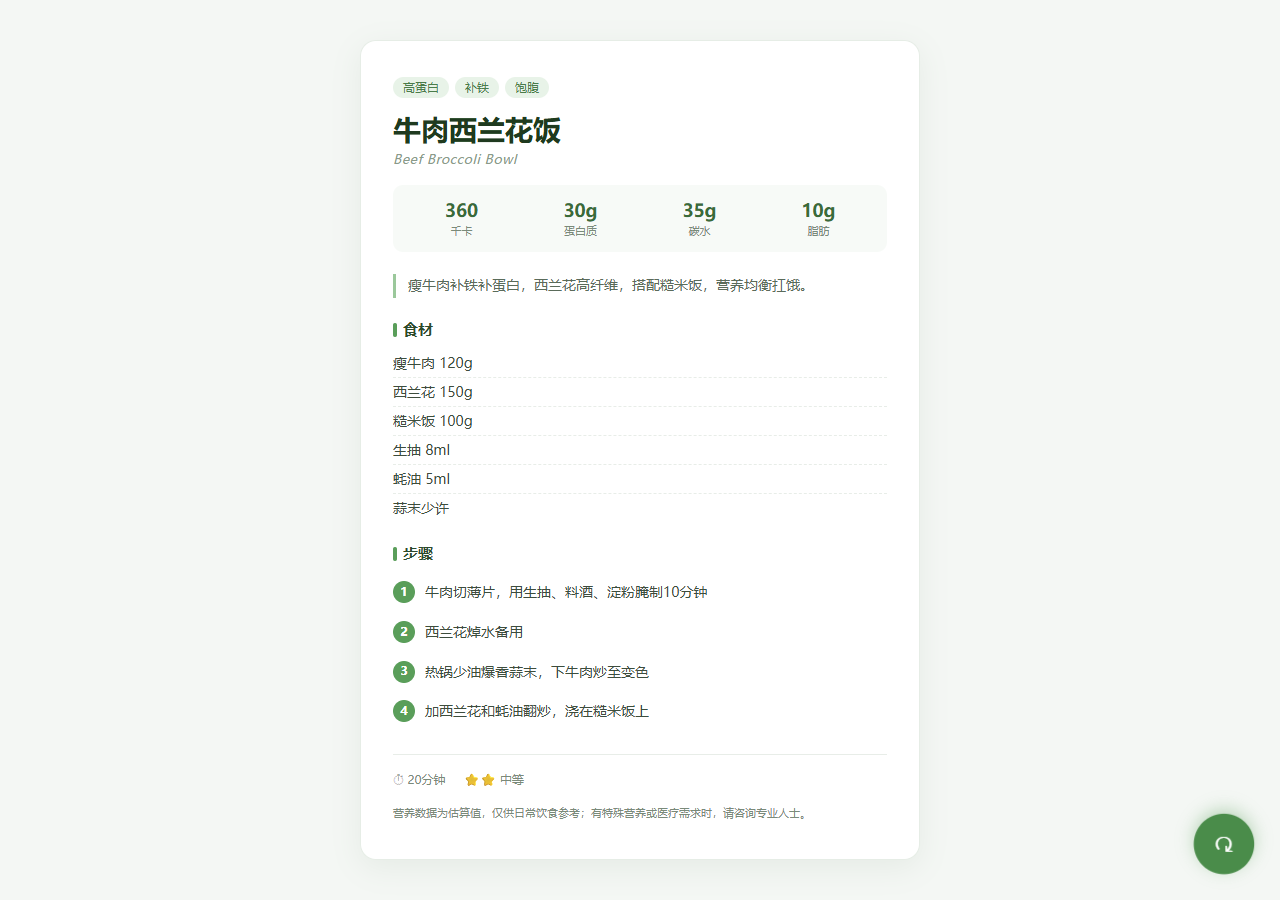
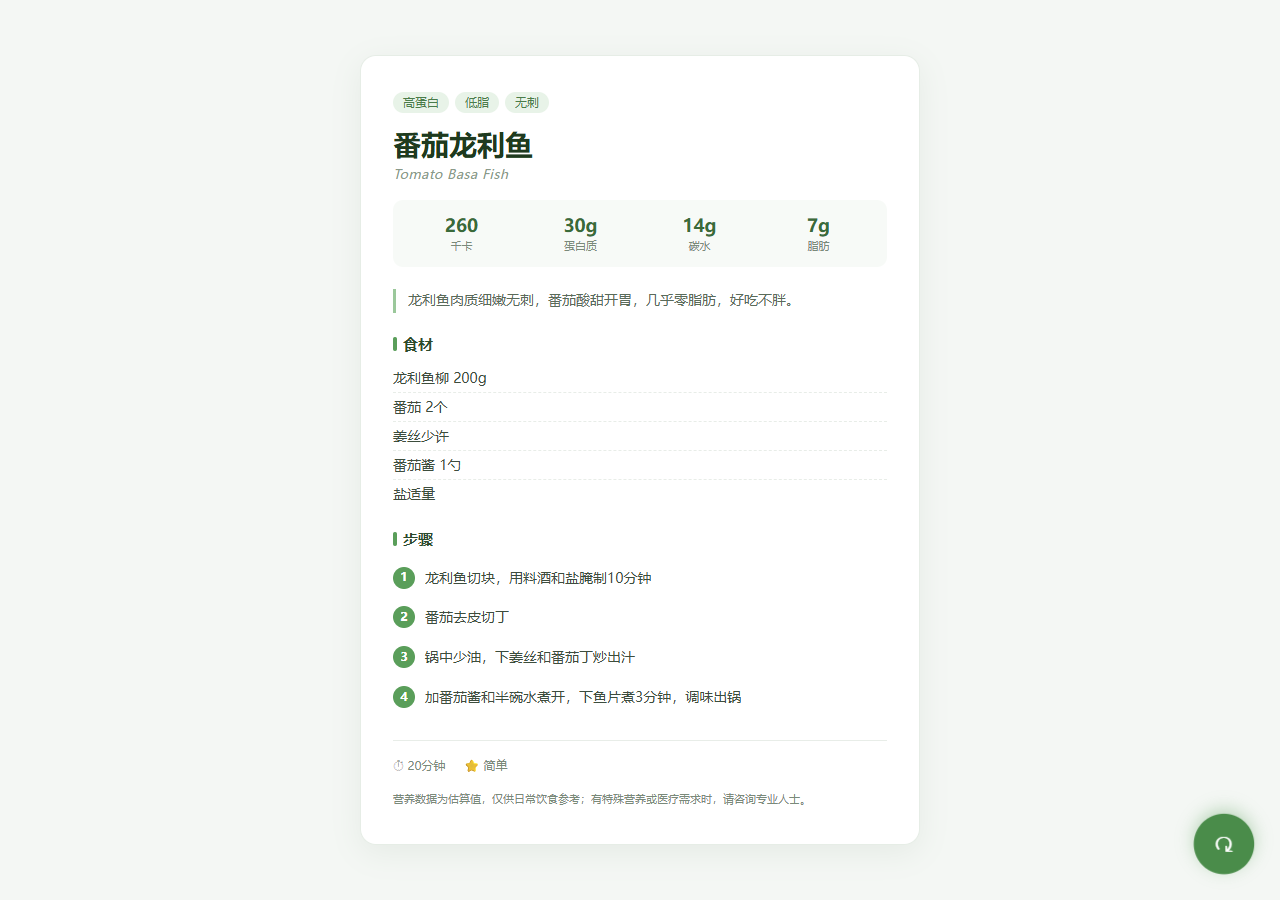
Finalize usage guide, license, and live demo link

diff --git a/INTERVIEW_GUIDE.md b/INTERVIEW_GUIDE.md
@@ -12,6 +12,16 @@
 - 完成移动端适配、键盘焦点与减少动画适配。
 - 为营养数据增加清晰的健康声明。
 
+## 完整使用说明
+
+1. 打开在线演示，或下载仓库后打开 `index.html`。
+2. 阅读当前菜谱的营养估算、食材、步骤、耗时和难度。
+3. 点击右下角的换一道按钮，展示另一道菜。
+4. 连续点击检查程序不会立即重复上一道菜。
+5. 在手机或缩小浏览器窗口后查看自适应布局。
+
+**常见问题：** 项目不需要网络或安装依赖。营养数据是估算值，不能作为医疗或个性化饮食建议。
+
 ## 面试官可能问什么
 
 ### 为什么用对象数组

diff --git a/README.md b/README.md
@@ -4,6 +4,8 @@
 
 ![Healthy Recipe Picker 界面截图](docs/screenshot.png)
 
+**在线演示：** https://limn12.github.io/healthy-recipe-picker/
+
 ## 功能
 
 - 内置 10 道减脂友好菜谱
